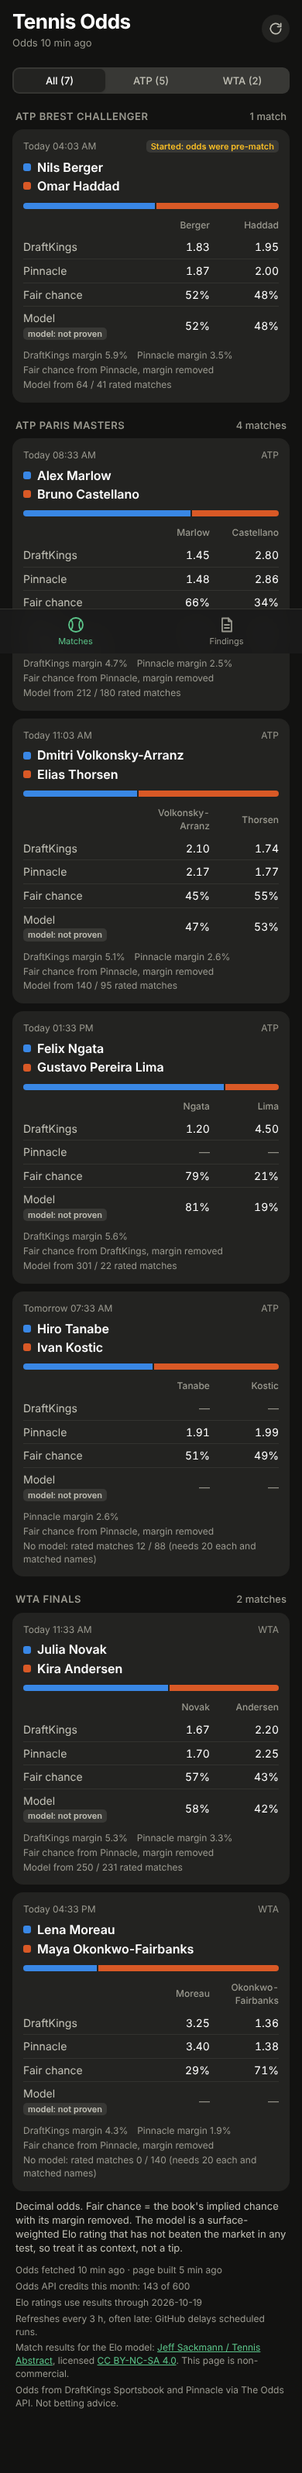
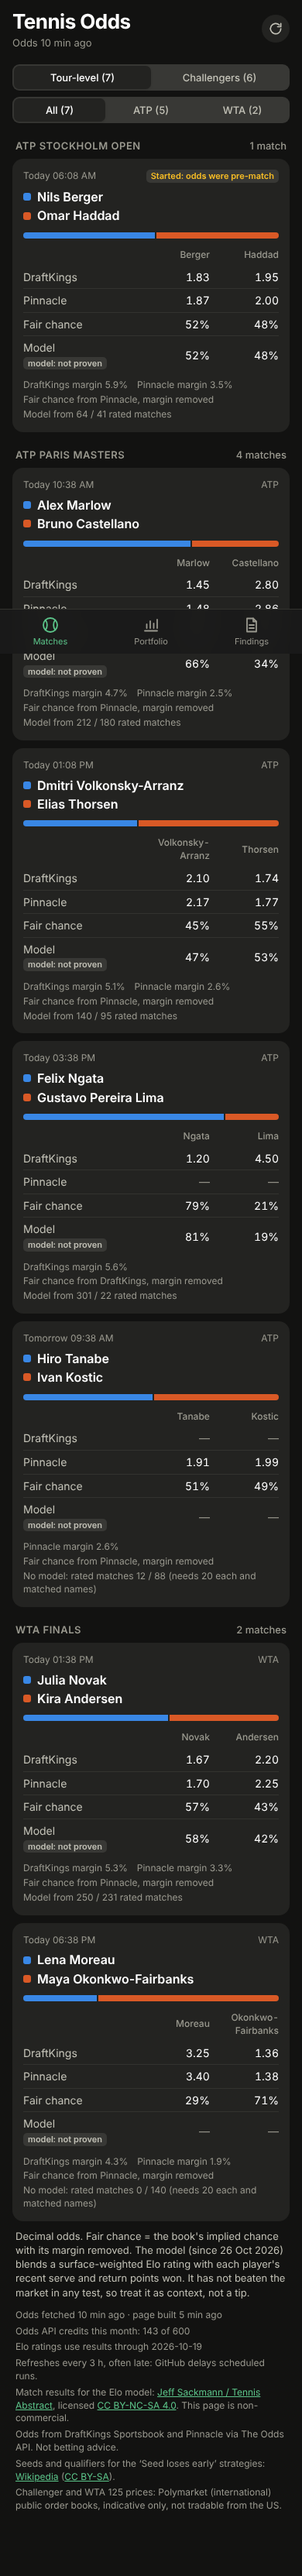
Site: labels for the 'Seed loses early' Portfolio strategies + Wikipedia CC BY-SA credit
Upsets' #137 (owner request): PF_SHORT seed / seed_q; footer credit for the seeds and
qualifiers source (Wikipedia, CC BY-SA); SW cache v5; site screenshots retaken.

Claude-Session: https://claude.ai/code/session_01W1DSUJuc7wQcHRTpWk2cX2

diff --git a/site/app.js b/site/app.js
@@ -355,7 +355,8 @@ const money = (x, dp = 0) => {
 };
 const signed = (x, dp = 1) => (isNum(x) ? (x > 0 ? "+" : x < 0 ? "−" : "") + Math.abs(x * 100).toFixed(dp) + "%" : "—");
 const sgnCls = (x) => (isNum(x) ? (x > 0 ? "pos" : x < 0 ? "neg" : "") : "");
-const PF_SHORT = { model: "Elo model", line: "DK vs Pinnacle", dogs: "Underdogs" };
+const PF_SHORT = { model: "Elo model", line: "DK vs Pinnacle", dogs: "Underdogs",
+  seed: "Seed loses early", seed_q: "Seed loses early (qualifiers)" };
 
 function tile(label, value, sub, cls) {
   return el("div", { class: "tile" }, el("div", { class: "t-label" }, label),
@@ -543,6 +544,9 @@ function footer() {
     ", licensed ", el("a", { href: "https://creativecommons.org/licenses/by-nc-sa/4.0/", rel: "noopener" }, "CC BY-NC-SA 4.0"),
     ". This page is non-commercial."));
   lines.push(p("Odds from DraftKings Sportsbook and Pinnacle via The Odds API. Not betting advice."));
+  lines.push(p("Seeds and qualifiers for the \u2018Seed loses early\u2019 strategies: ",
+    el("a", { href: "https://en.wikipedia.org", rel: "noopener" }, "Wikipedia"),
+    " (", el("a", { href: "https://creativecommons.org/licenses/by-sa/4.0/", rel: "noopener" }, "CC BY-SA"), ")."));
   if (odds && odds.challengers && typeof odds.challengers === "object") {
     lines.push(p("Challenger and WTA 125 prices: Polymarket (international) public order books, indicative only, not tradable from the US."));
   }

diff --git a/site/sw.js b/site/sw.js
@@ -1,7 +1,7 @@
 // Offline support: the app shell is cached; everything is network-first, so you get the
 // latest odds when online and the last ones you saw when not. Bump CACHE on shell changes;
 // activate deletes every other cache.
-const CACHE = "tennis-odds-v4";
+const CACHE = "tennis-odds-v5";
 const SHELL = ["./", "index.html", "style.css", "app.js", "manifest.webmanifest", "icons/icon-192.png"];
 
 self.addEventListener("install", (e) => {

diff --git a/tests/test_site.py b/tests/test_site.py
@@ -149,7 +149,7 @@ def test_site_is_static_and_self_contained():
     js = (SITE / "app.js").read_text()
     # the only absolute URLs in the app are plain links (reports, attribution), never fetched
     for url in re.findall(r"https?://[^\s\"'`)]+", js):
-        assert url.startswith(("https://github.com/", "https://creativecommons.org/")), url
+        assert url.startswith(("https://github.com/", "https://creativecommons.org/", "https://en.wikipedia.org")), url
     assert set(re.findall(r"""fetch\(\s*([A-Za-z_]+|["'][^"']+["'])""", js)) == {"url"}
     assert re.findall(r'_URL = "([^"]+)"', js) == ["data/odds.json", "findings.json", "data/portfolio.json",
                                                    "portfolio_backtest.json"]
@@ -335,6 +335,7 @@ def _common(res: dict) -> None:
     assert f["lead"] == "Every test so far: no edge after fees"
     assert f["cards"] == len(_findings())
     assert "CC BY-NC-SA" in res["footer"] and "non-commercial" in res["footer"]
+    assert "Seed loses early" in res["footer"] and "Wikipedia (CC BY-SA)" in res["footer"]
     assert "Refreshes every 3 h, often late" in res["footer"]
 
 

diff --git a/CLAUDE.md b/CLAUDE.md
@@ -487,6 +487,9 @@ Since phat-d0/Tennis_Model#116 also: `min_arb_profit_per_contract` (the alert th
   the **spread of outcomes** (SD of P&L per contract, with the range); exits show as "sold @ bid"; start-up entries use each
   rule's own `since`; the lookback gets a cash-out table (Δ vs C0 at 0¢/1¢) and its own chart. Contract tests run Scanner's
   swing and cash-out code: 20/20 dashboard tests pass on #132's head (74528a3); 311 passed + 2 skipped on main.
+- 2026-10-28 (Dashboard): public page labels Upsets' new Portfolio strategies ("Seed loses early", "Seed loses early
+  (qualifiers)", phat-d0/Tennis_Model#137) and credits their seed source in the footer: "Seeds and qualifiers for the 'Seed
+  loses early' strategies: Wikipedia (CC BY-SA)". Service-worker cache v5. 14 site tests passing.
 - 2026-10-27: Paper trading live on the server from 17:34 UTC. Owner deleted `team/scanner`; no ref holds ae08bf5 now (an orphaned
   commit can still be fetched by full SHA until GitHub's GC; GitHub Support can purge it).
 - 2026-10-26: **Tennis Odds page live** at https://phat-d0.github.io/Tennis_Model/ (GitHub Pages, `.github/workflows/publish.yml`,
